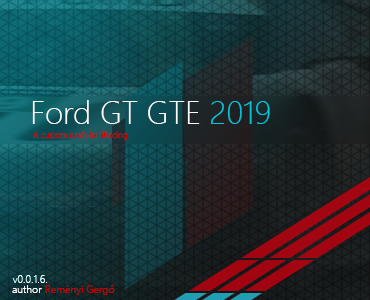
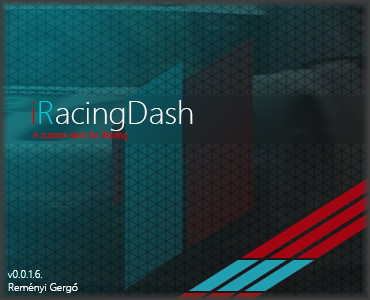
Updated idle picture and added system time to it by code.
Fixed coloring issue on idle screen

Changed region(s): [[0.0, 0.0, 1.0, 1.0], [0.0892, 0.33, 0.5351, 0.45], [0.5649, 0.33, 0.7432, 0.42]]

diff --git a/iRacingDash/Form1.cs b/iRacingDash/Form1.cs
@@ -24,6 +24,7 @@ namespace iRacingDash
         private SdkWrapper wrapper;
         private iRacingSDK sdk;
 
+
         private delegate void SafeCallDelegate(bool visible);
         private static Configurator s = new Configurator();
         public static string logPath = s.Configurate<string>("logPath", "config", "Path");
@@ -95,6 +96,8 @@ namespace iRacingDash
         private Label settingLabelTitle;
         private Label settingLabelValue;
 
+        private Label idleClock;
+
 
         //Settings on car
         private int boost;
@@ -128,7 +131,7 @@ namespace iRacingDash
             //Window setup
             var X = s.Configurate<int>("window", "config", "PositionX");
             var Y = s.Configurate<int>("window", "config", "PositionY");
-            this.Location = new Point((int) X, (int) Y);
+            this.Location = new Point((int)X, (int)Y);
 
             //ShiftLights setup
             minRpmPercent = s.Configurate<int>("led", "config", "MinimumRPMPercent");
@@ -156,32 +159,27 @@ namespace iRacingDash
 
             Laptime_value.ForeColor = Color.LawnGreen;
 
+            //Create labels and panels
             settingLabelTitle = CreateLabel("settingLabelTitle", "Setting", new Size(this.Width, 150), new Point(0, 0),
-                Color.Black, new Font("Microsoft YaHei", 40, FontStyle.Bold), false);
+                Color.Black, Color.DarkGray, new Font("Microsoft YaHei", 40, FontStyle.Bold), false);
             settingLabelValue = CreateLabel("settingLabelValue", "Value", new Size(this.Width, 150), new Point(0, 150),
-                Color.Black, new Font("Microsoft YaHei", 40, FontStyle.Bold), false);
+                Color.Black, Color.DarkGray, new Font("Microsoft YaHei", 40, FontStyle.Bold), false);
             settingLabelTitle.TextAlign = ContentAlignment.BottomCenter;
             settingLabelValue.TextAlign = ContentAlignment.TopCenter;
-            settingLabelTitle.BringToFront();
-            settingLabelValue.BringToFront();
 
             settingsPanel = CreateSettingWindow(new Point(0, 0), Color.DarkGray, new Size(this.Width, this.Height),
                 false);
-            //panelek előtérbe helyezése
-            //settingsPanel.BringToFront();
+
 
             CreateIdle();
-            //CheckWrapperRunning();
+            
 
-            //new Thread(() =>
-            //    {
-            //        while (true)
-            //        {
-            //            CheckWrapperRunning();
-            //            Thread.Sleep(100);
-            //        }
-            //    }
-            //);
+            //panelek előtérbe helyezése
+            settingLabelTitle.BringToFront();
+            settingLabelValue.BringToFront();
+            
+            //settingsPanel.BringToFront();
+
 
             Thread t = new Thread(new ThreadStart(CheckWrapperRunning));
             t.Start();
@@ -198,7 +196,19 @@ namespace iRacingDash
             {
                 idleImg.Visible = visible;
             }
+
+            if (idleClock.InvokeRequired)
+            {
+                var d = new SafeCallDelegate(WriteTextSafe);
+                Invoke(d, new object[] { visible });
+            }
+            else
+            {
+                idleClock.Visible = visible;
+            }
+
         }
+
 
         private void SetText(bool value)
         {
@@ -207,17 +217,24 @@ namespace iRacingDash
 
         private void CheckWrapperRunning()
         {
+            idleClock.Text = string.Format("{0:00}:{1:00}",DateTime.Now.Hour, DateTime.Now.Minute);
             while (true)
             {
                 var isConnected = wrapper.IsConnected;
+
                 if (isConnected)
+                {
                     WriteTextSafe(false);
+                }
                 else
+                {
                     WriteTextSafe(true);
+                }
+
 
                 Thread.Sleep(1000);
             }
-            
+
         }
 
         private void CreateIdle()
@@ -232,7 +249,14 @@ namespace iRacingDash
             };
             this.Controls.Add(idleImg);
             idleImg.Visible = true;
+            
+
+            idleClock = CreateLabel("idleClock", "00:00", new Size(130, 50), new Point(120, 30), Color.White, Color.Transparent,
+                new Font("Microsoft YaHei", 30, FontStyle.Regular), true);
+            idleClock.Parent = idleImg;
+
             idleImg.BringToFront();
+            idleClock.BringToFront();
         }
 
 
@@ -282,18 +306,18 @@ namespace iRacingDash
             //settingsPanel.BringToFront();
         }
 
-        private Label CreateLabel(string name, string text, Size size, Point location, Color color, Font font,
+        private Label CreateLabel(string name, string text, Size size, Point location, Color foreColor, Color backColor, Font font,
             bool visible)
         {
             Label label = new Label();
             label.Text = text;
             label.Location = location;
             label.Visible = visible;
-            label.ForeColor = color;
+            label.ForeColor = foreColor;
+            label.BackColor = backColor;
             label.Font = font;
             label.Name = name;
             label.Size = size;
-            label.BackColor = Color.DarkGray;
 
             this.Controls.Add(label);
 
@@ -419,10 +443,10 @@ namespace iRacingDash
                     NewLapCalculation(e);
 
 
-                    if (fpsCounter == (int) (wrapper.TelemetryUpdateFrequency / NonRTCalculationFPS))
+                    if (fpsCounter == (int)(wrapper.TelemetryUpdateFrequency / NonRTCalculationFPS))
                         NonRealtimeCalculations(e);
 
-                    if (flashingFpsCounter == (int) (wrapper.TelemetryUpdateFrequency / flashingFps))
+                    if (flashingFpsCounter == (int)(wrapper.TelemetryUpdateFrequency / flashingFps))
                         WarningFlashes(e);
 
                     #region Set boost
@@ -500,7 +524,7 @@ namespace iRacingDash
                         settingPanelFpsCounter = 0;
 
                     //panelek megjelenitése
-                    if (settingPanelFpsCounter <= (int) (wrapper.TelemetryUpdateFrequency / settingPanelFps))
+                    if (settingPanelFpsCounter <= (int)(wrapper.TelemetryUpdateFrequency / settingPanelFps))
                     {
                         settingLabelTitle.Text = title;
                         if (actualValue.GetType() == typeof(float))
@@ -690,10 +714,10 @@ namespace iRacingDash
             var lapObject = wrapper.GetData("LapCurrentLapTime");
             var lap = Convert.ToDouble(lapObject);
 
-            int min = (int) (lap / 60);
-            int sec = (int) (lap % 60);
+            int min = (int)(lap / 60);
+            int sec = (int)(lap % 60);
 
-            double decimalPart = lap % (int) lap;
+            double decimalPart = lap % (int)lap;
 
             string laptime;
             laptime = decimalPart > 0
